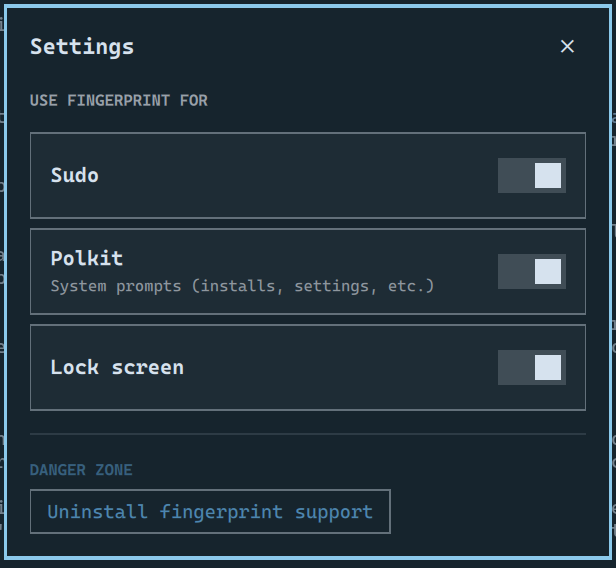
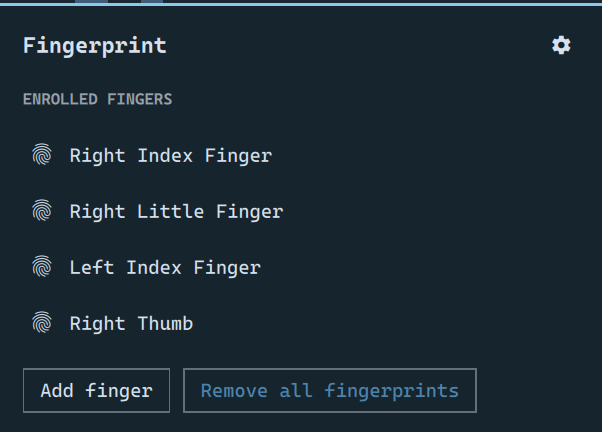
Show the panel itself in the README
The one screenshot led with the settings screen, which is the second thing
you see and the less representative one. Lead with the enrolled-finger list
instead and keep the settings shot next to the section that describes it.

Both are cropped to the card rather than the full screen, so neither carries
whatever happened to be on the desktop behind them.

Claude-Session: https://claude.ai/code/session_013ZbbJQ9v2vhhoGvxBMSCw4

diff --git a/README.md b/README.md
@@ -4,7 +4,7 @@ An Omarchy panel for managing fingerprint authentication after it is set up: whi
 enrolled, adding and removing them, and which system tasks accept a fingerprint instead of a
 password.
 
-![The settings screen: a switch per task, and the danger zone](docs/screenshot.png)
+![The panel: enrolled fingers, with add and remove-all](docs/screenshot.png)
 
 ## Why
 
@@ -89,6 +89,8 @@ than a shortcut: `net.reactivated.Fprint` has no per-finger delete at all. See
 [docs/DESIGN.md](docs/DESIGN.md). To drop one finger, remove all and re-enroll the ones you keep.
 
 **Use fingerprint for** — behind the gear icon — is a switch per task:
+
+![The settings screen: a switch per task, and the danger zone](docs/screenshot-settings.png)
 
 | Task | What toggling it changes |
 |---|---|
